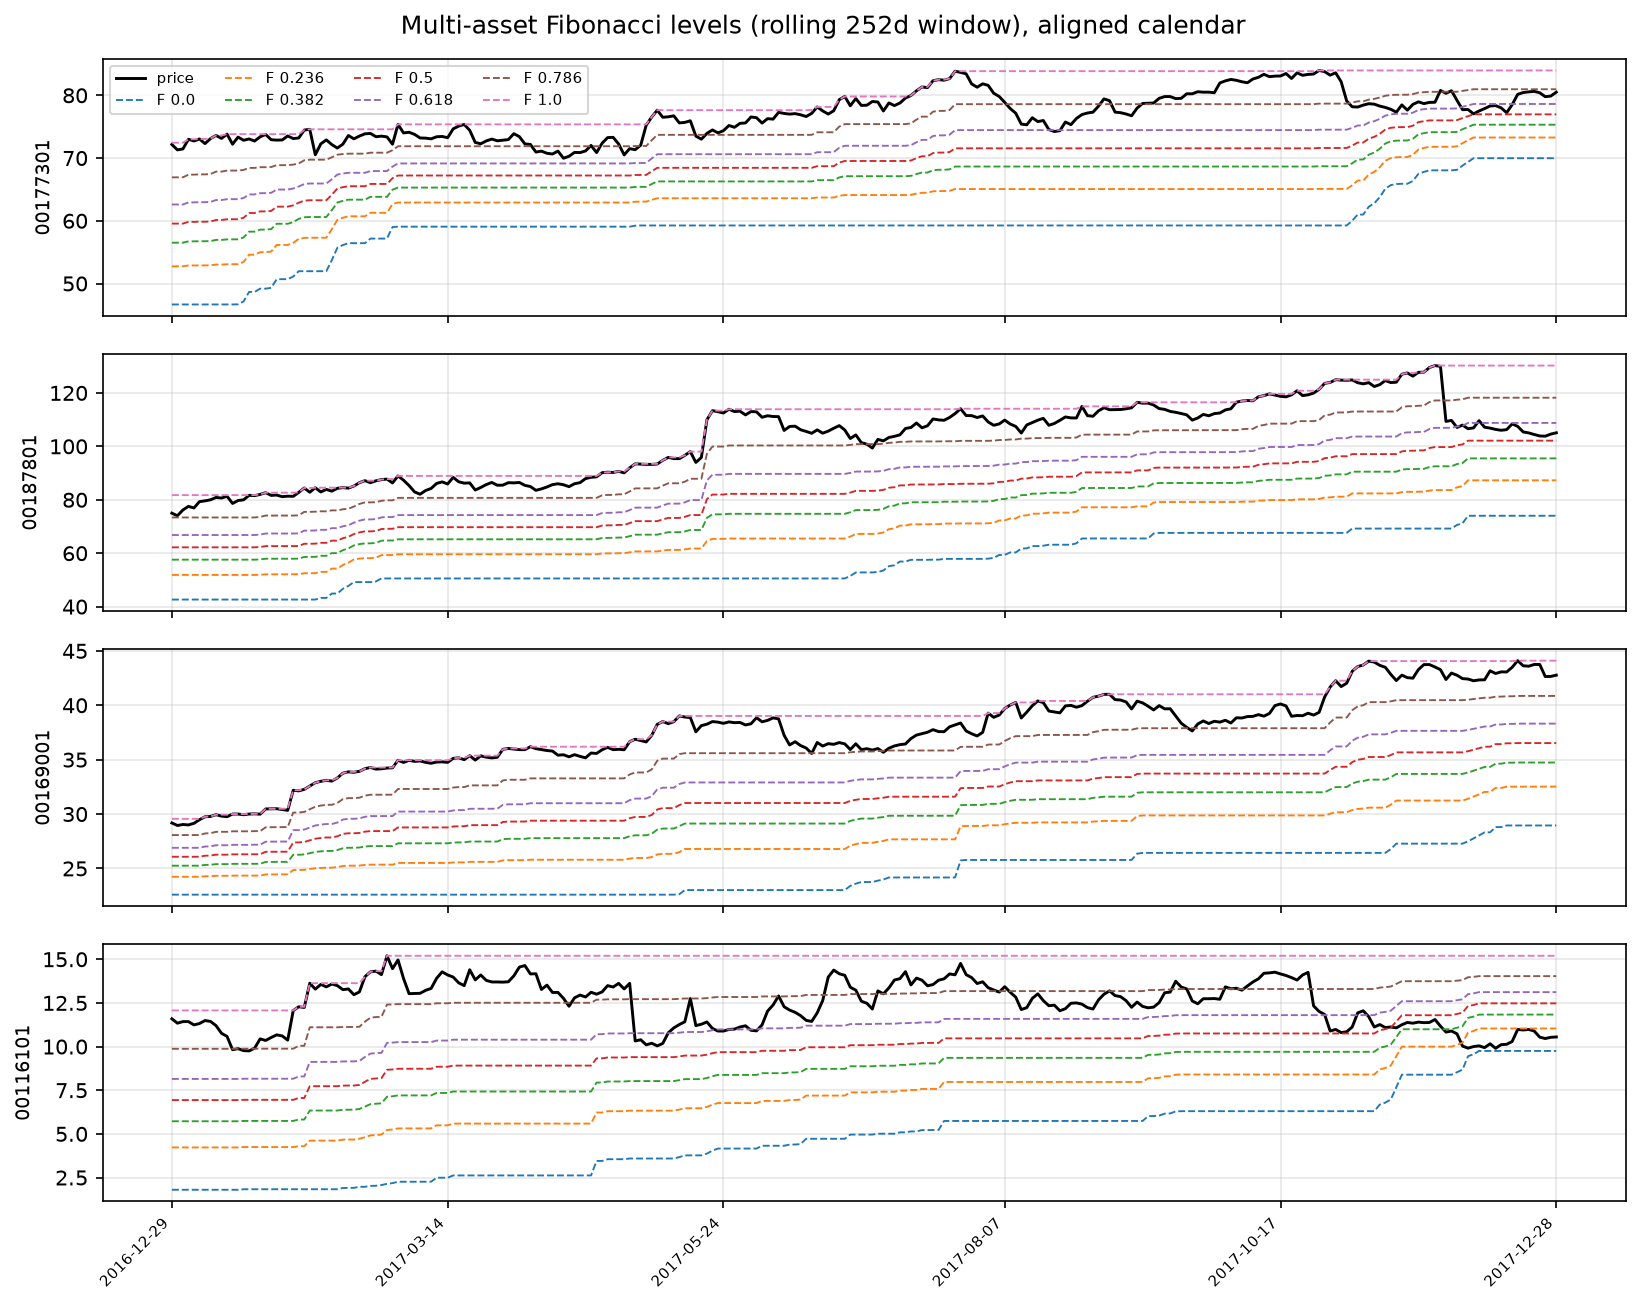
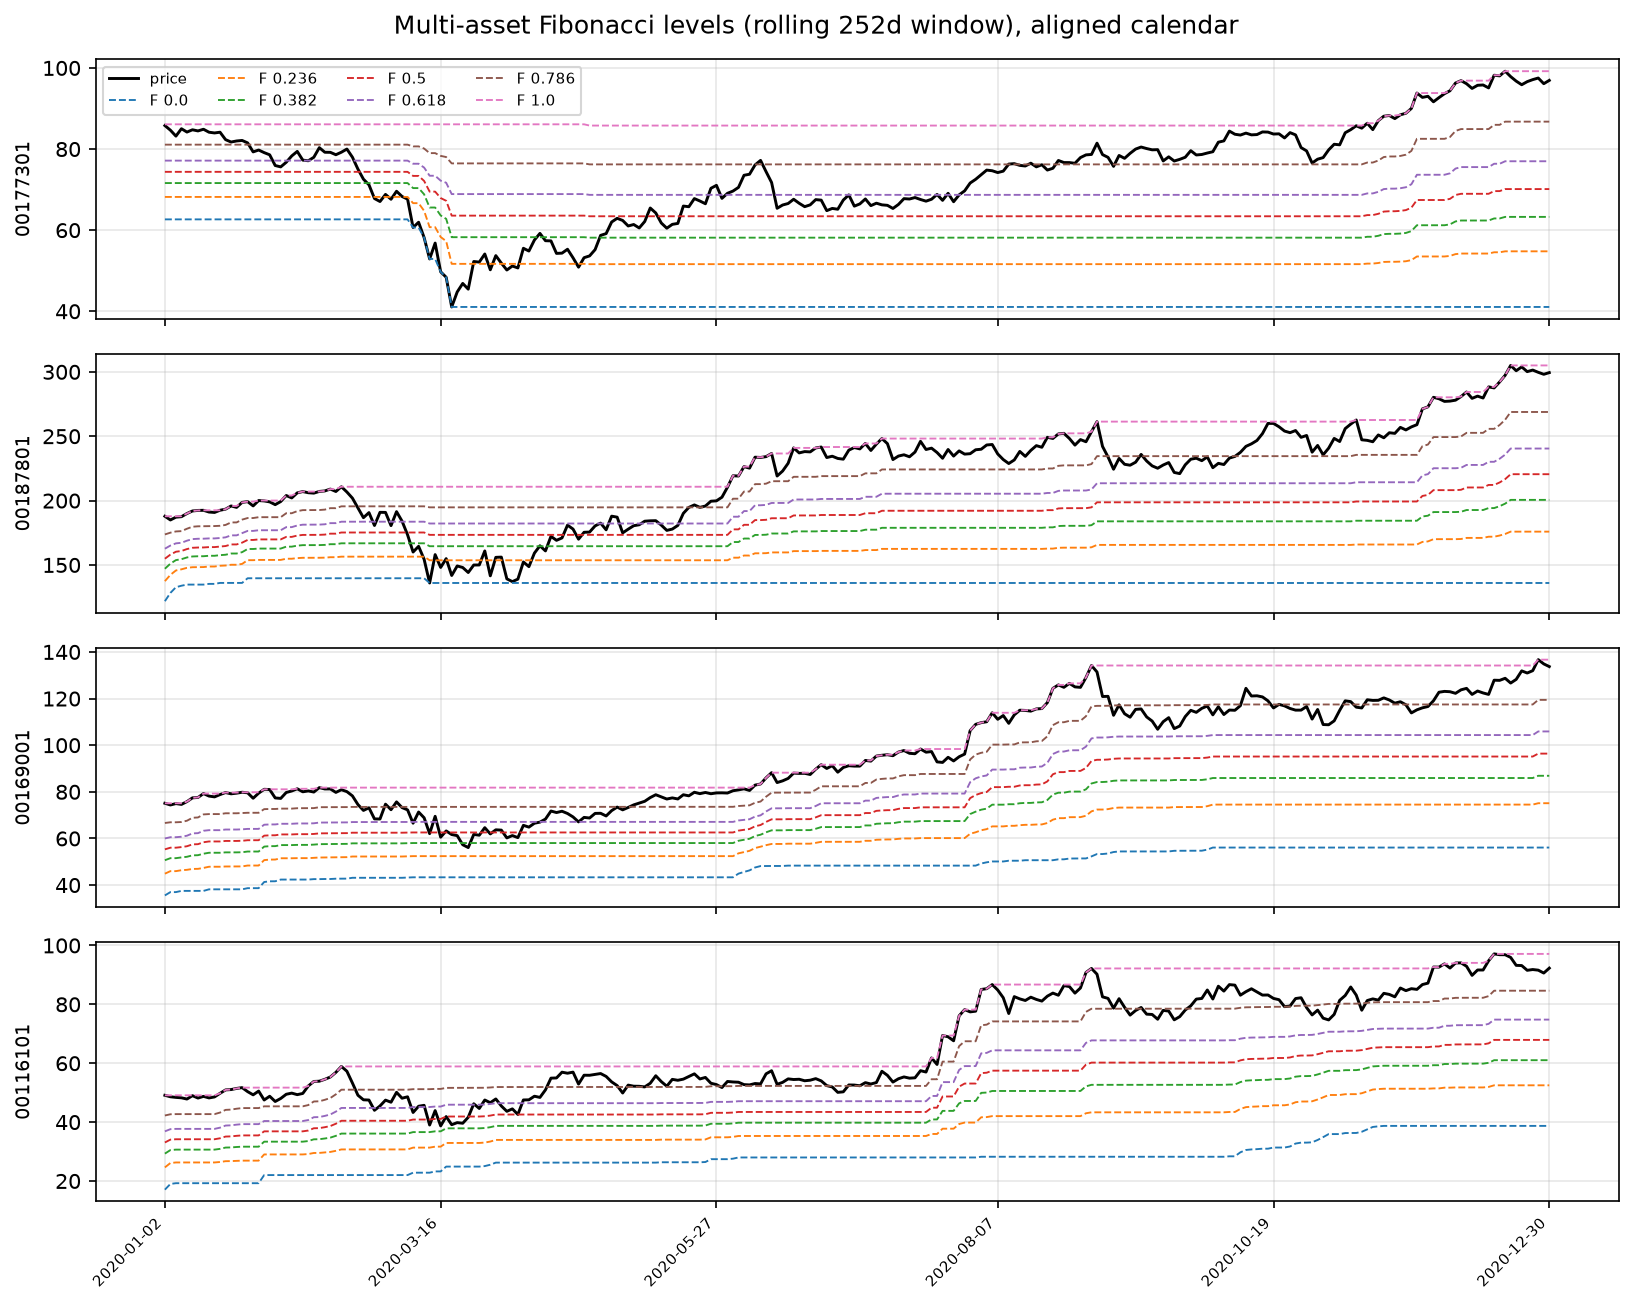
Exp 2: analyze full 2014-2020 range (1260 windows, matches single-asset config)

diff --git a/experiments/neural_SDE/trainer_cfg/neural_SDE/US_Stocks_Multi.py b/experiments/neural_SDE/trainer_cfg/neural_SDE/US_Stocks_Multi.py
@@ -24,7 +24,7 @@ def get_trainer_cfg():
         issue_ids=basket,   # explicit basket of IssueIds; if empty, the n_assets assets with the most complete coverage are selected
         n_assets=n_assets,
         start_date="2014-12-31",
-        end_date="2017-12-31",
+        end_date="2020-12-31",
         lookback_window=252,
         max_windows=None,   # optional cap on the number of windows (evenly spaced subsampling)
         dt= 1.0,        # dt in: X_{t+1} = X_t + mu(X_t) * dt + sigma(X_t) * sqrt(dt) * (L_R dW)_t

diff --git a/workspace/neural_SDE/logs/exp2_fib_analysis/same_sector/exp2_findings.md b/workspace/neural_SDE/logs/exp2_fib_analysis/same_sector/exp2_findings.md
@@ -1,11 +1,11 @@
 # Exp 2 findings — 00674201, 14335601, 13376801, 01272601, 00764701
 
-Aligned 2015-12-30 .. 2017-12-28, 504 windows; near-level = |D| < 0.02.
+Aligned 2015-12-30 .. 2020-12-30, 1260 windows; near-level = |D| < 0.02.
 
-(a) Levels meaningful per asset: near-level rate 26%-37%; FSM events on every asset (Bounce 5-19, Hover 13-16 each).
-(b) Simultaneity: co-occurrence lift 1.36 (1.0 = independence); lead/lag peaks at lag 0 (|corr| = 0.176).
+(a) Levels meaningful per asset: near-level rate 28%-33%; FSM events on every asset (Bounce 15-22, Hover 29-33 each).
+(b) Simultaneity: co-occurrence lift 1.25 (1.0 = independence); lead/lag peaks at lag 0 (|corr| = 0.113).
 (c) Cross-asset effects, top KS pairs (A near level -> B's next-day returns):
-    13376801 -> 00764701: KS = 0.15 (p = 0.027), mean|ret| 0.0131 vs 0.0121 unconditional
-    00764701 -> 01272601: KS = 0.13 (p = 0.039), mean|ret| 0.0116 vs 0.0096 unconditional
+    00764701 -> 01272601: KS = 0.09 (p = 0.014), mean|ret| 0.0177 vs 0.0158 unconditional
+    01272601 -> 00764701: KS = 0.08 (p = 0.050), mean|ret| 0.0163 vs 0.0133 unconditional
 
 Figures: `figA_simultaneous_levels.png`; combined: `../exp2_basket_comparison.png`.

diff --git a/workspace/neural_SDE/logs/exp2_fib_analysis/diversified/exp2_findings.md b/workspace/neural_SDE/logs/exp2_fib_analysis/diversified/exp2_findings.md
@@ -1,11 +1,11 @@
 # Exp 2 findings — 00138001, 00141402, 00107801, 00116101
 
-Aligned 2015-12-30 .. 2017-12-28, 504 windows; near-level = |D| < 0.02.
+Aligned 2015-12-30 .. 2020-12-30, 1260 windows; near-level = |D| < 0.02.
 
-(a) Levels meaningful per asset: near-level rate 25%-32%; FSM events on every asset (Bounce 8-16, Hover 10-14 each).
-(b) Simultaneity: co-occurrence lift 1.03 (1.0 = independence); lead/lag peaks at lag -7 (|corr| = 0.017).
+(a) Levels meaningful per asset: near-level rate 28%-30%; FSM events on every asset (Bounce 8-24, Hover 12-30 each).
+(b) Simultaneity: co-occurrence lift 1.03 (1.0 = independence); lead/lag peaks at lag -7 (|corr| = 0.013).
 (c) Cross-asset effects, top KS pairs (A near level -> B's next-day returns):
-    00138001 -> 00107801: KS = 0.10 (p = 0.255), mean|ret| 0.0084 vs 0.0086 unconditional
-    00138001 -> 00141402: KS = 0.10 (p = 0.315), mean|ret| 0.0127 vs 0.0122 unconditional
+    00107801 -> 00138001: KS = 0.08 (p = 0.077), mean|ret| 0.0203 vs 0.0219 unconditional
+    00138001 -> 00116101: KS = 0.07 (p = 0.162), mean|ret| 0.0272 vs 0.0274 unconditional
 
 Figures: `figA_simultaneous_levels.png`; combined: `../exp2_basket_comparison.png`.

diff --git a/workspace/neural_SDE/logs/exp2_fib_analysis/concentrated/exp2_findings.md b/workspace/neural_SDE/logs/exp2_fib_analysis/concentrated/exp2_findings.md
@@ -1,11 +1,11 @@
 # Exp 2 findings — 00177301, 00187801, 00169001, 00116101
 
-Aligned 2015-12-30 .. 2017-12-28, 504 windows; near-level = |D| < 0.02.
+Aligned 2015-12-30 .. 2020-12-30, 1260 windows; near-level = |D| < 0.02.
 
-(a) Levels meaningful per asset: near-level rate 26%-33%; FSM events on every asset (Bounce 5-16, Hover 12-17 each).
-(b) Simultaneity: co-occurrence lift 1.01 (1.0 = independence); lead/lag peaks at lag -7 (|corr| = 0.039).
+(a) Levels meaningful per asset: near-level rate 27%-35%; FSM events on every asset (Bounce 6-22, Hover 12-37 each).
+(b) Simultaneity: co-occurrence lift 1.05 (1.0 = independence); lead/lag peaks at lag 0 (|corr| = 0.026).
 (c) Cross-asset effects, top KS pairs (A near level -> B's next-day returns):
-    00177301 -> 00169001: KS = 0.17 (p = 0.006), mean|ret| 0.0099 vs 0.0086 unconditional
-    00187801 -> 00116101: KS = 0.14 (p = 0.030), mean|ret| 0.0339 vs 0.0263 unconditional
+    00169001 -> 00177301: KS = 0.07 (p = 0.156), mean|ret| 0.0121 vs 0.0129 unconditional
+    00177301 -> 00187801: KS = 0.06 (p = 0.264), mean|ret| 0.0192 vs 0.0149 unconditional
 
 Figures: `figA_simultaneous_levels.png`; combined: `../exp2_basket_comparison.png`.
